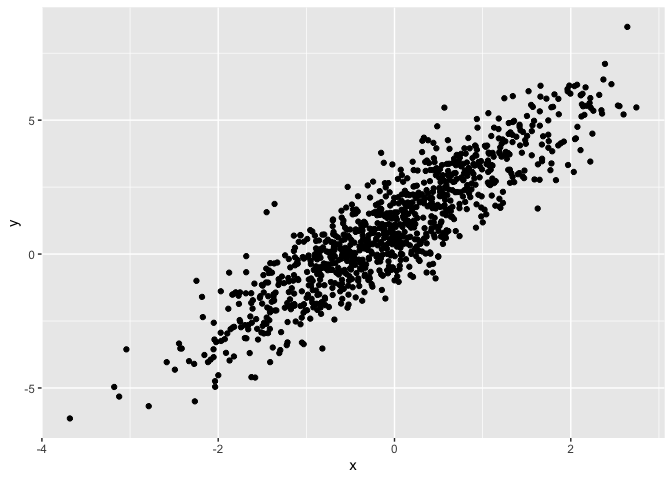
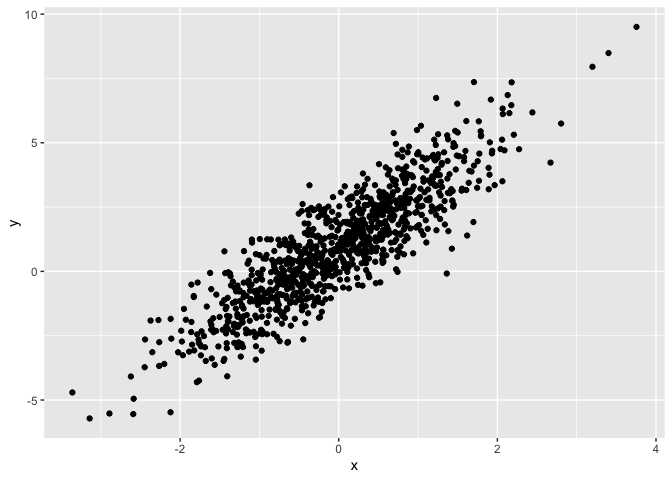
template figures

diff --git a/template.md b/template.md
@@ -16,19 +16,19 @@ length(samp)
 
 # Section 2
 
-I can take the mean of the sample, too! The mean is -0.18.
+I can take the mean of the sample, too! The mean is -0.04.
 
 ``` r
 mean(samp)
 ```
 
-    ## [1] -0.1838059
+    ## [1] -0.04159908
 
 ``` r
 round(mean(samp),2)
 ```
 
-    ## [1] -0.18
+    ## [1] -0.04
 
 # Section 3
 
@@ -82,6 +82,6 @@ median_samp = median(pull(la_df, norm))
 round(median_samp, digits = 2) #median value rounded to two decimal places
 ```
 
-    ## [1] 0.92
+    ## [1] 1.03
 
-The median of the variable containing absolute values is 0.92.
+The median of the variable containing absolute values is 1.03.
